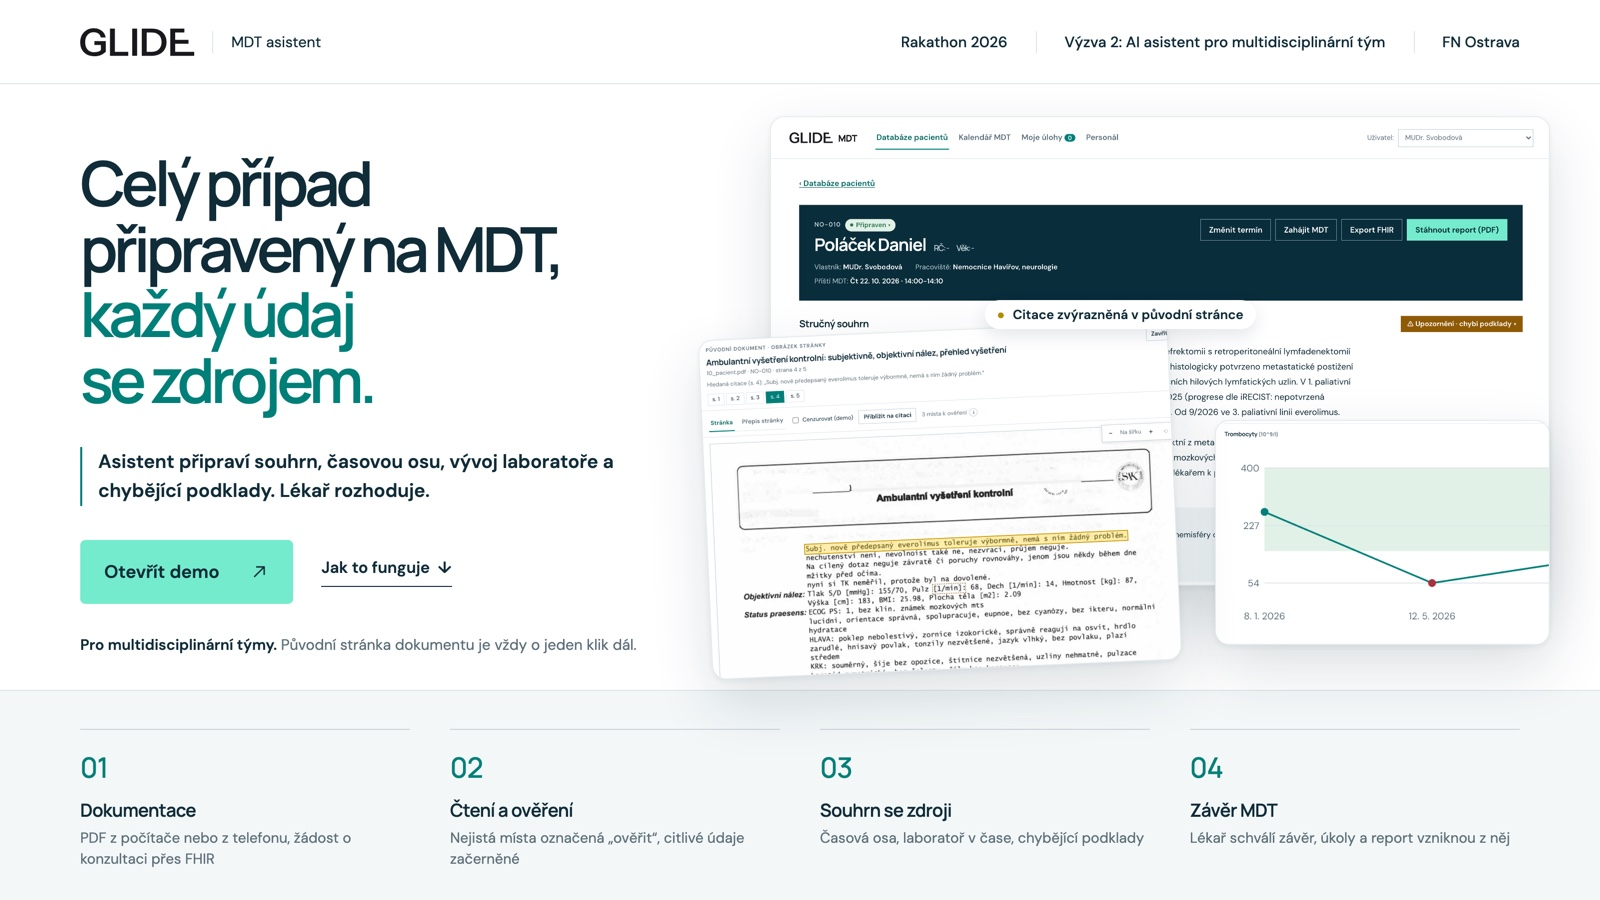
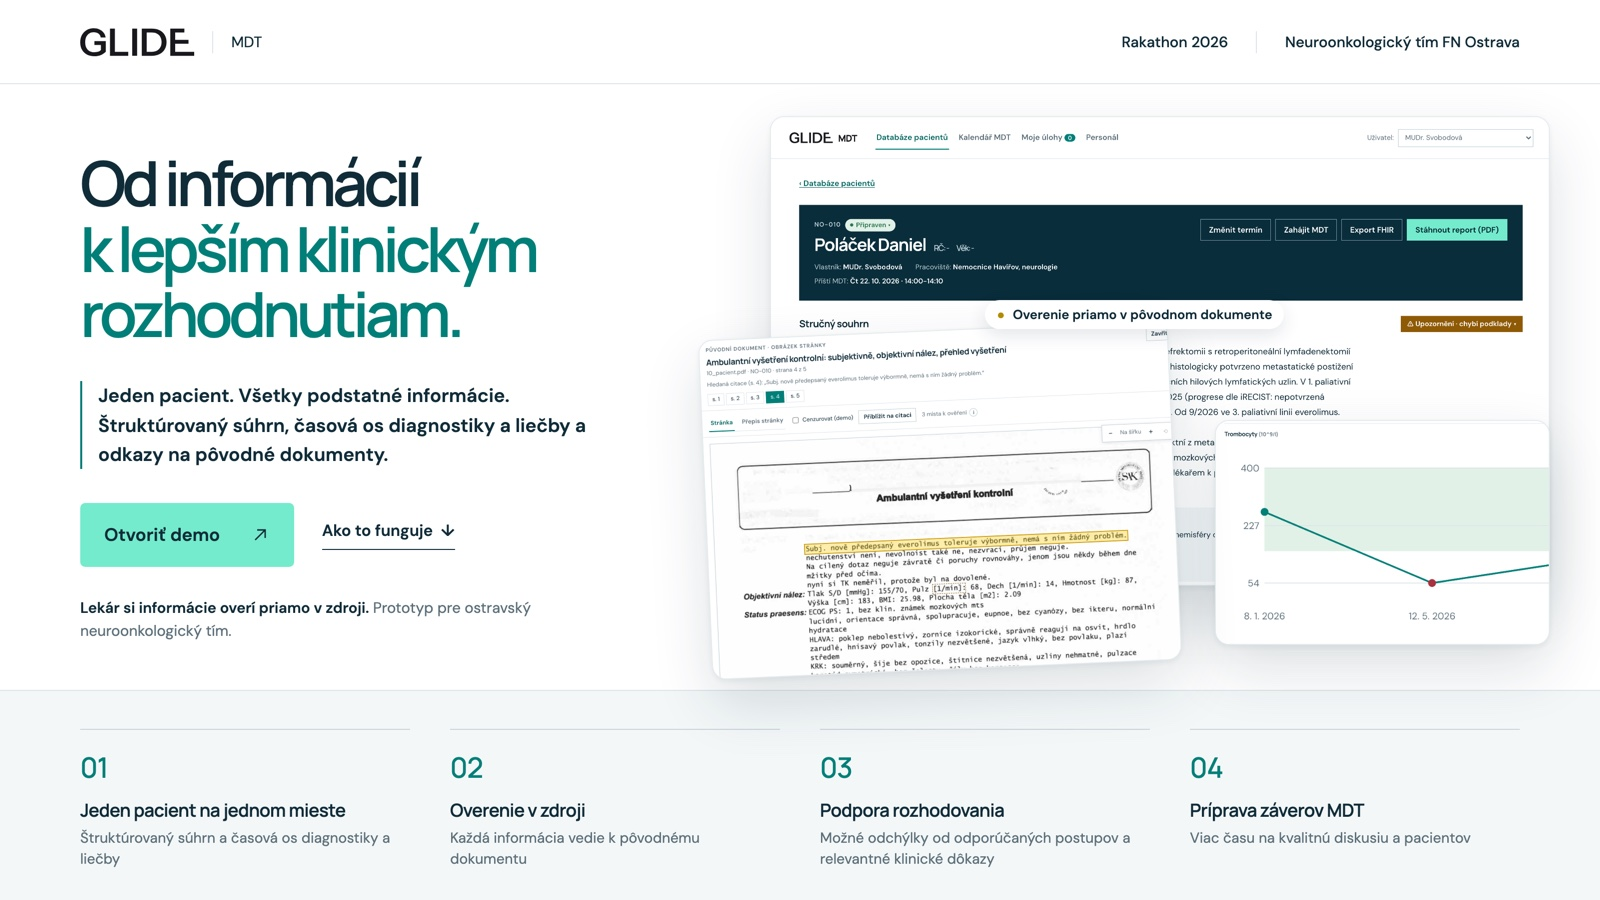
Cover: Slovak copy from the pitch script (Od informácií k lepším klinickým rozhodnutiam)

diff --git a/scripts/cover/cover.html b/scripts/cover/cover.html
@@ -1,5 +1,5 @@
 <!doctype html>
-<html lang="cs"><head><meta charset="utf-8">
+<html lang="sk"><head><meta charset="utf-8">
 <!-- Cover image for the project gallery, 1600x900. Rendered by scripts/cover/build.mjs.
      Design follows glideanalysis.com: its tokens (ink, teal, mint, navy, line, surface), Manrope with tight tracking,
      a two-tone headline, a ruled subtitle, a mint button with a thin arrow, and numbered steps under thin rules.
@@ -50,29 +50,29 @@
 </style></head>
 <body>
   <div class="top">
-    <img src="../../mocks/src/brand/glide.svg" alt="GLIDE"><div class="div"></div><span class="label">MDT asistent</span>
-    <div class="right"><span>Rakathon 2026</span><span class="div" style="margin:0"></span><span>Výzva 2: AI asistent pro multidisciplinární tým</span><span class="div" style="margin:0"></span><span>FN Ostrava</span></div>
+    <img src="../../mocks/src/brand/glide.svg" alt="GLIDE"><div class="div"></div><span class="label">MDT</span>
+    <div class="right"><span>Rakathon 2026</span><span class="div" style="margin:0"></span><span>Neuroonkologický tím FN Ostrava</span></div>
   </div>
 
   <div class="hero">
-    <h1>Celý případ<br>připravený na MDT,<br><span class="t">každý údaj<br>se zdrojem.</span></h1>
-    <p class="lede">Asistent připraví souhrn, časovou osu, vývoj laboratoře a chybějící podklady. Lékař rozhoduje.</p>
+    <h1>Od informácií<br><span class="t">k lepším klinickým<br>rozhodnutiam.</span></h1>
+    <p class="lede">Jeden pacient. Všetky podstatné informácie. Štruktúrovaný súhrn, časová os diagnostiky a liečby a odkazy na pôvodné dokumenty.</p>
     <div class="ctas">
-      <span class="mint">Otevřít demo <svg viewBox="0 0 20 20"><path d="M5 15 15 5M7 5h8v8"/></svg></span>
-      <span class="link">Jak to funguje&nbsp; ↓</span>
+      <span class="mint">Otvoriť demo <svg viewBox="0 0 20 20"><path d="M5 15 15 5M7 5h8v8"/></svg></span>
+      <span class="link">Ako to funguje&nbsp; ↓</span>
     </div>
-    <p class="note"><b>Pro multidisciplinární týmy.</b> Původní stránka dokumentu je vždy o jeden klik dál.</p>
+    <p class="note"><b>Lekár si informácie overí priamo v zdroji.</b> Prototyp pre ostravský neuroonkologický tím.</p>
   </div>
 
   <div class="shot-card main"><div class="shot"></div></div>
   <div class="shot-card labs"><div class="shot"></div></div>
   <div class="shot-card src"><div class="shot"></div></div>
-  <div class="tag"><span style="color:#b38b00">●</span> Citace zvýrazněná v původní stránce</div>
+  <div class="tag"><span style="color:#b38b00">●</span> Overenie priamo v pôvodnom dokumente</div>
 
   <div class="steps">
-    <div class="step"><div class="n">01</div><b>Dokumentace</b><span>PDF z počítače nebo z telefonu, žádost o konzultaci přes FHIR</span></div>
-    <div class="step"><div class="n">02</div><b>Čtení a ověření</b><span>Nejistá místa označená „ověřit“, citlivé údaje začerněné</span></div>
-    <div class="step"><div class="n">03</div><b>Souhrn se zdroji</b><span>Časová osa, laboratoř v čase, chybějící podklady</span></div>
-    <div class="step"><div class="n">04</div><b>Závěr MDT</b><span>Lékař schválí závěr, úkoly a report vzniknou z něj</span></div>
+    <div class="step"><div class="n">01</div><b>Jeden pacient na jednom mieste</b><span>Štruktúrovaný súhrn a časová os diagnostiky a liečby</span></div>
+    <div class="step"><div class="n">02</div><b>Overenie v zdroji</b><span>Každá informácia vedie k pôvodnému dokumentu</span></div>
+    <div class="step"><div class="n">03</div><b>Podpora rozhodovania</b><span>Možné odchýlky od odporúčaných postupov a relevantné klinické dôkazy</span></div>
+    <div class="step"><div class="n">04</div><b>Príprava záverov MDT</b><span>Viac času na kvalitnú diskusiu a pacientov</span></div>
   </div>
 </body></html>
